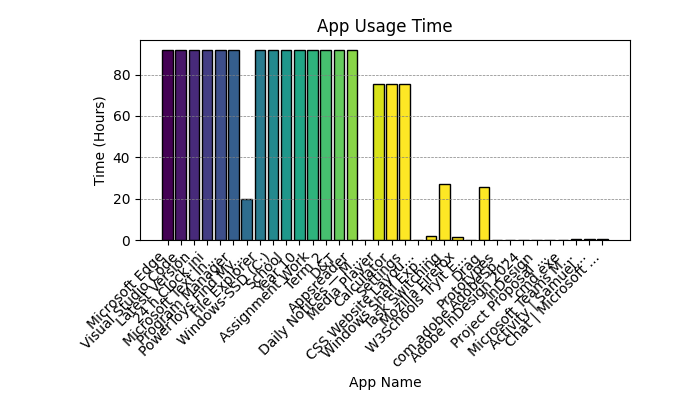
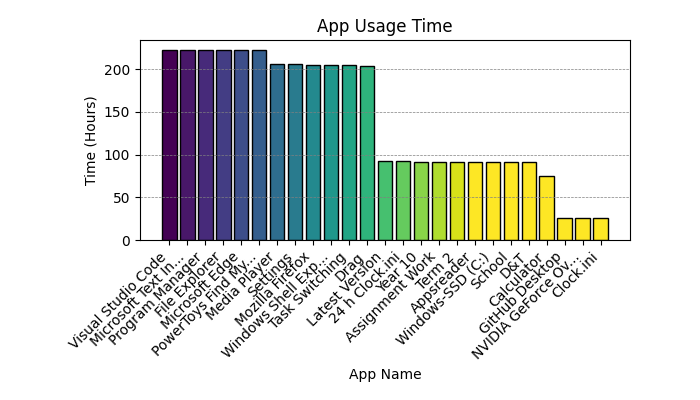
Readability Improvements
Added a superior sorting system that allows the full app time list to be ordered in a sequentially descending manner. Additionally, added a readability feature so that the graph only displays the top 25 apps in use. Recommended next avenue is to add alternative graph methods such as pie chart and/or time based records e.g. previous day, week, month, year.

Changed region(s): [[0.12, 0.12, 0.9, 0.6], [0.09, 0.63, 0.87, 0.99], [0.15, 0.15, 0.21, 0.21]]

diff --git a/templates/Page_1.html b/templates/Page_1.html
@@ -10,14 +10,14 @@
             }
 
             .right{
-                width=35%
+                width:35%;
             }
 
             .left{
-                width=65%
+                width:65%;
             }
 
-            .row: :after{
+            .row :after{
                 content: "";
                 display: table;
                 clear: both;
@@ -76,12 +76,13 @@
                     const response = await fetch(`/static/AppReaderData.json?cb=${cacheBuster}`);
                     const data = await response.json();
                     const appList = document.getElementById('appList');
-                    console.log(data)
-                    // Convert the object into an array of key-value pairs
-                    const dataArray = Object.entries(data);
-                    
-                    // Sort the array by elapsed time in descending order
-                    dataArray.sort((a, b) => b[1].elapsed - a[1].elapsed);
+                    console.log(data);
+                    /* for (const [app, details] of Object.entries(data)) {
+                        if (details.elapsed < 3600) {
+                            delete data[app];
+                        }
+                    } */
+                   //For later stuff if needed, trims out apps that have been used for less than an hour
 
 
                     appList.innerHTML = ''; // Clear any existing content
@@ -89,7 +90,7 @@
                     for (const [app, details] of Object.entries(data)) {
                         const listItem = document.createElement('li');
                         let hours = Math.round(details.elapsed/3600);
-                        if hours < 1 {
+                        if (hours < 1) {
                             hours = "> 1";
                         }
                         listItem.textContent = `${app}: Elapsed Time - ${hours} hours`;
@@ -102,7 +103,7 @@
         </script>
         {% block GraphArea %}
         <div class="column left">
-            <h1>Simplified Graph</h1>
+            <h1>Most Used Apps</h1>
             <img alt="Unable to load graph, please try again in a few seconds!" src={{url_for('static', filename='Column.png')}}>
             <li>
             <button onclick="ReloadPage()">Refresh Graph</button>

diff --git a/AppReader_Remake_Testing.py b/AppReader_Remake_Testing.py
@@ -76,18 +76,27 @@ class AppReader():
                 self.apptime[app] = {'cur_time': round(current_time, 0), 'elapsed': 0}  # current_time is already rounded
                 
     def AppRelease(self):
+        #Sorting algorith here - descending order
+        self.apptime = dict(sorted(self.apptime.items(), key=lambda x: x[1]['elapsed'], reverse=True))
+
         for app_name, time in self.apptime.items():
             # Update the time for the app in self.appslist
             self.appslist[app_name] = (f"{time['elapsed']} seconds")
+        
 
 def update_graph(timedisplay):
     try:
         ax.clear()
-        app_names = list(AppReader.appslist.keys())
-        for i in (AppReader.appslist.values()):
+        smalllist = {}
+        smalllist = AppReader.appslist
+        #If there are more than 15 apps, only display the top 15
+        if len(smalllist) > 25:
+            smalllist = dict(list(smalllist.items())[:25])
+        app_names = list(smalllist.keys())
+        for i in (smalllist.values()):
             values = i.split(" ")
             value = values[0]
-            maximum = max([int(round(float(value.split(" ")[0]), 0)) for value in AppReader.appslist.values()])
+            maximum = max([int(round(float(value.split(" ")[0]), 0)) for value in smalllist.values()])
             if maximum > 60 and maximum < 3600:
                 timedisplay = "Minutes"
                 break
@@ -101,16 +110,16 @@ def update_graph(timedisplay):
                 pass
             
         if timedisplay == "Seconds":
-            times = [int(round(float(time.split(" ")[0]), 0)) for time in AppReader.appslist.values()]
+            times = [int(round(float(time.split(" ")[0]), 0)) for time in smalllist.values()]
         elif timedisplay == "Minutes":
-            times = [(int(round(float(time.split(' ')[0]), 0)))/60 for time in AppReader.appslist.values()]
+            times = [(int(round(float(time.split(' ')[0]), 0)))/60 for time in smalllist.values()]
         elif timedisplay == "Hours":
-            times = [(int(round(float(time.split(" ")[0]), 0)))/3600 for time in AppReader.appslist.values()]
+            times = [(int(round(float(time.split(" ")[0]), 0)))/3600 for time in smalllist.values()]
         elif timedisplay == "Days":
-            times = [(int(round(float(time.split(" ")[0]), 0)))/86400 for time in AppReader.appslist.values()]
+            times = [(int(round(float(time.split(" ")[0]), 0)))/86400 for time in smalllist.values()]
         else:
             print("Error: Invalid time display. Defaulting to hours.")
-            times = [(int(round(float(time.split(" ")[0]), 0)))/3600 for time in AppReader.appslist.values()]
+            times = [(int(round(float(time.split(" ")[0]), 0)))/3600 for time in smalllist.values()]
             timedisplay = "Hours"
                 
         color_indices = np.arange(len(app_names))
@@ -138,7 +147,8 @@ def update_graph(timedisplay):
         pass
 
     return timedisplay
-    
+
+#Recommended next avenue is to add alternative graph methods such as pie chart and/or time based records e.g. previous day, week, month, year.
     
 def scan():
     while True:
